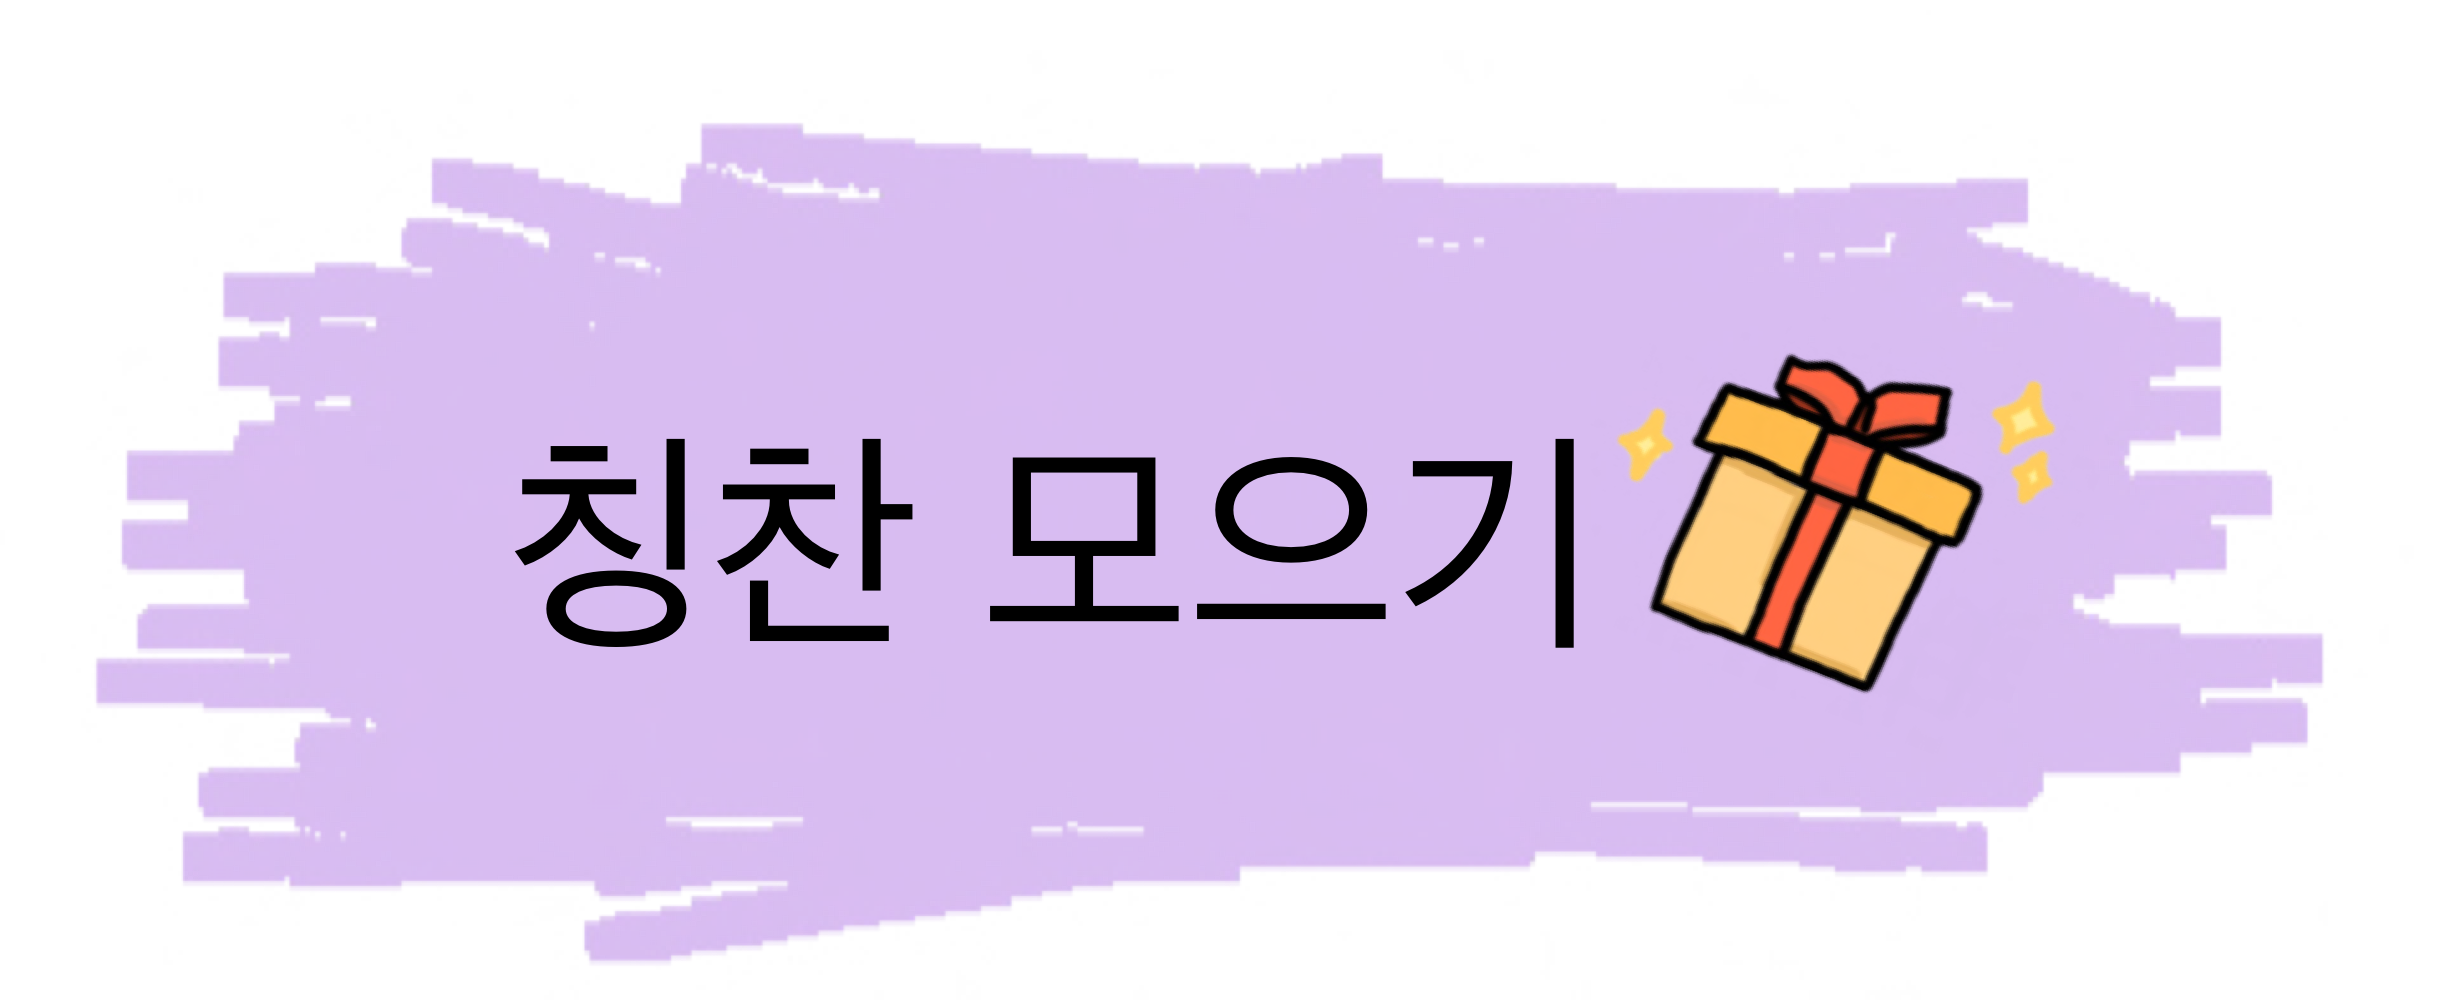
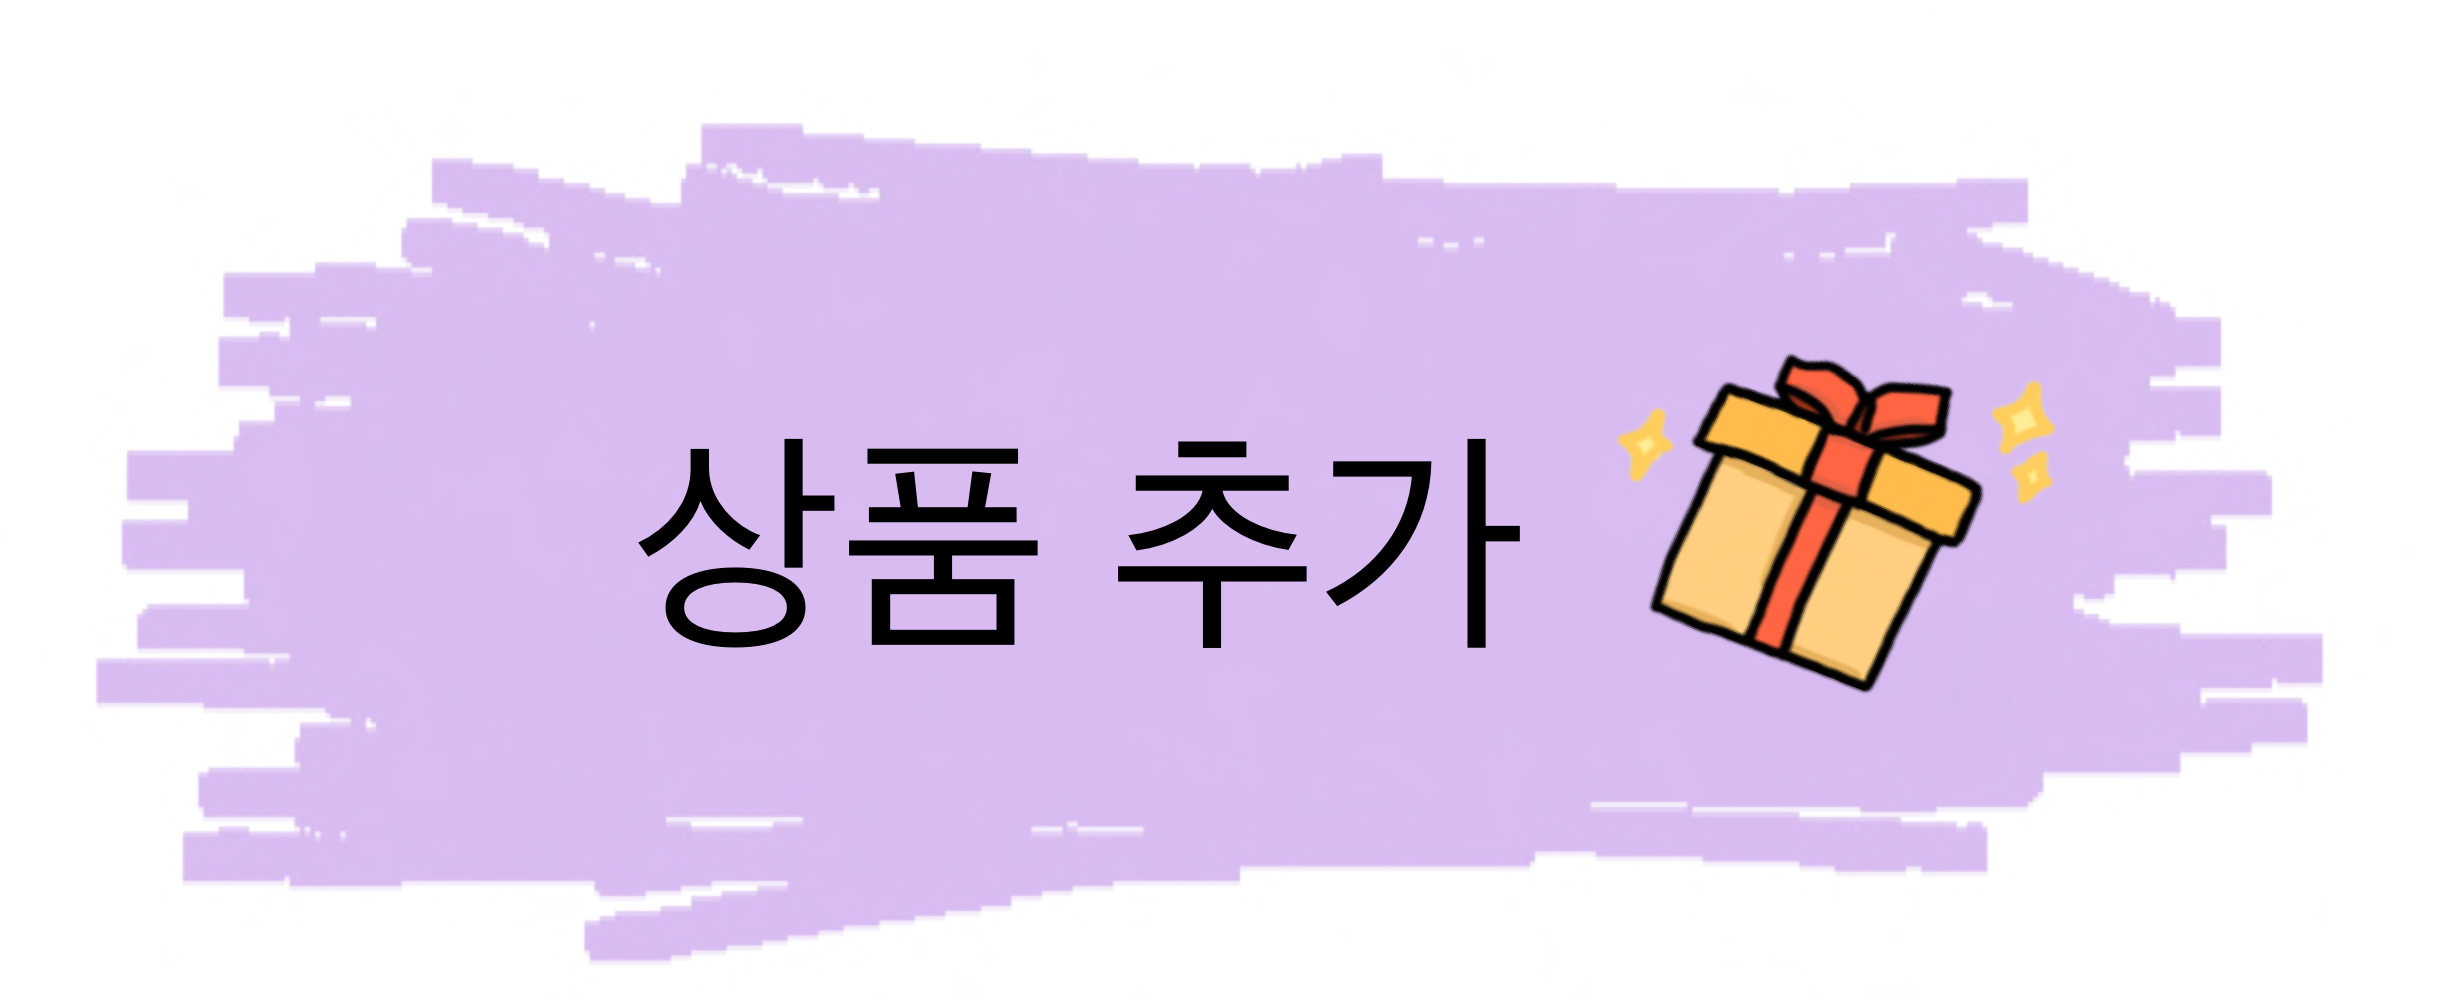
상품 추가 페이지 생성 및 이미지 수정

Changed region(s): [[0.2176, 0.434, 0.6528, 0.651]]

diff --git a/lib/page_class/PrarentPraise.dart b/lib/page_class/PrarentPraise.dart
@@ -1,0 +1,101 @@
+import 'package:flutter/material.dart';
+
+class ParentPraise extends StatefulWidget {
+  @override
+  _ParentPraiseState createState() => _ParentPraiseState();
+}
+
+class _ParentPraiseState extends State<ParentPraise> {
+  @override
+  Widget build(BuildContext context) {
+    return SafeArea(
+      child: Scaffold(
+          body: Container(
+        child: ListView(
+          children: [
+            Column(
+              mainAxisAlignment: MainAxisAlignment.center,
+              children: [
+                SizedBox(height: 20,),
+                Container(
+                  child: Text(
+                    '상품 추가',
+                    style: TextStyle(
+                      fontSize: 30,
+                      fontWeight: FontWeight.bold,
+                    ),
+                  ),
+                ),
+                SizedBox(
+                  height: 50,
+                ),
+                ReusableProduct(
+                    text: '1단계'
+                ),
+                ReusableProduct(
+                  text: '2단계'
+                ),
+                ReusableProduct(
+                    text: '3단계'
+                ),
+                ReusableProduct(
+                    text: '4단계'
+                ),
+                ReusableProduct(
+                    text: '5단계'
+                ),
+                ReusableProduct(
+                    text: '6단계'
+                ),
+                ReusableProduct(
+                    text: '7단계'
+                ),
+              ],
+            ),
+          ],
+        ),
+      )),
+    );
+  }
+}
+class ReusableProduct extends StatelessWidget {
+  ReusableProduct({this.text});
+  final String text;
+  @override
+  Widget build(BuildContext context) {
+    return Row(
+      mainAxisAlignment: MainAxisAlignment.spaceEvenly,
+      children: [
+        SizedBox(width: 20,),
+        Container(
+          color: Colors.red[200],
+          child: Text(
+            '$text',
+            style: TextStyle(
+              fontSize: 20,
+            ),
+          ),
+        ),
+        SizedBox(
+          width: 20,
+        ),
+        Container(
+          height: 30,
+          width: 400,
+          child: TextField(
+            decoration: InputDecoration(
+              border: OutlineInputBorder(),
+              labelText: 'input',
+            ),
+          ),
+        ),
+        FlatButton(
+          onPressed: () {},
+          color: Colors.blue[100],
+          child: Text('상품 관리'),
+        ),
+        SizedBox(width: 20,),
+      ],
+    );
+  }
+}

diff --git a/lib/page_class/parent_page.dart b/lib/page_class/parent_page.dart
@@ -1,16 +1,18 @@
 import 'package:flutter/material.dart';
 import 'package:learn_korean_for_children/page_class/Explanation.dart';
+import 'package:learn_korean_for_children/page_class/IncorrectProblem.dart';
 import 'KidPage.dart';
 import 'RegistProblem.dart';
+import 'PrarentPraise.dart';
 
 String img_path = 'images/ParentPage';
 
 class ParentPage extends StatelessWidget {
   @override
   Widget build(BuildContext context) {
-    return Scaffold(
-      body: SafeArea(
-        child: Row(
+    return SafeArea(
+      child: Scaffold(
+        body: Row(
           crossAxisAlignment: CrossAxisAlignment.baseline,
           children: [
             parent_page_card[0],
@@ -32,14 +34,14 @@ List<Widget> parent_page_card = [
         Expanded(
           child: ReusableCard(
             text: "wrong_problem",
-            cardChild: Explanation(),
+            cardChild: IncorrectProblem(),
           ),
         ),
         //틀린 문제
         Expanded(
           child: ReusableCard(
             text: "praise",
-            cardChild: RegistProblem(),
+            cardChild: ParentPraise(),
           ),
         ),
       ],
@@ -61,7 +63,7 @@ List<Widget> parent_page_card = [
         Expanded(
           child: ReusableCard(
             text: 'howtouse',
-            cardChild: Text('칭찬판'),
+            cardChild: Explanation(),
           ),
         ),
       ],

diff --git a/lib/page_class/Explanation.dart b/lib/page_class/Explanation.dart
@@ -12,9 +12,9 @@ class _ExplanationState extends State<Explanation> {
   int ExplanationNumber = 0;
   @override
   Widget build(BuildContext context) {
-    return Scaffold(
-      body: SafeArea(
-        child: Column(
+    return SafeArea(
+      child: Scaffold(
+        body: Column(
           children: [
             Expanded(
               flex: 12,
